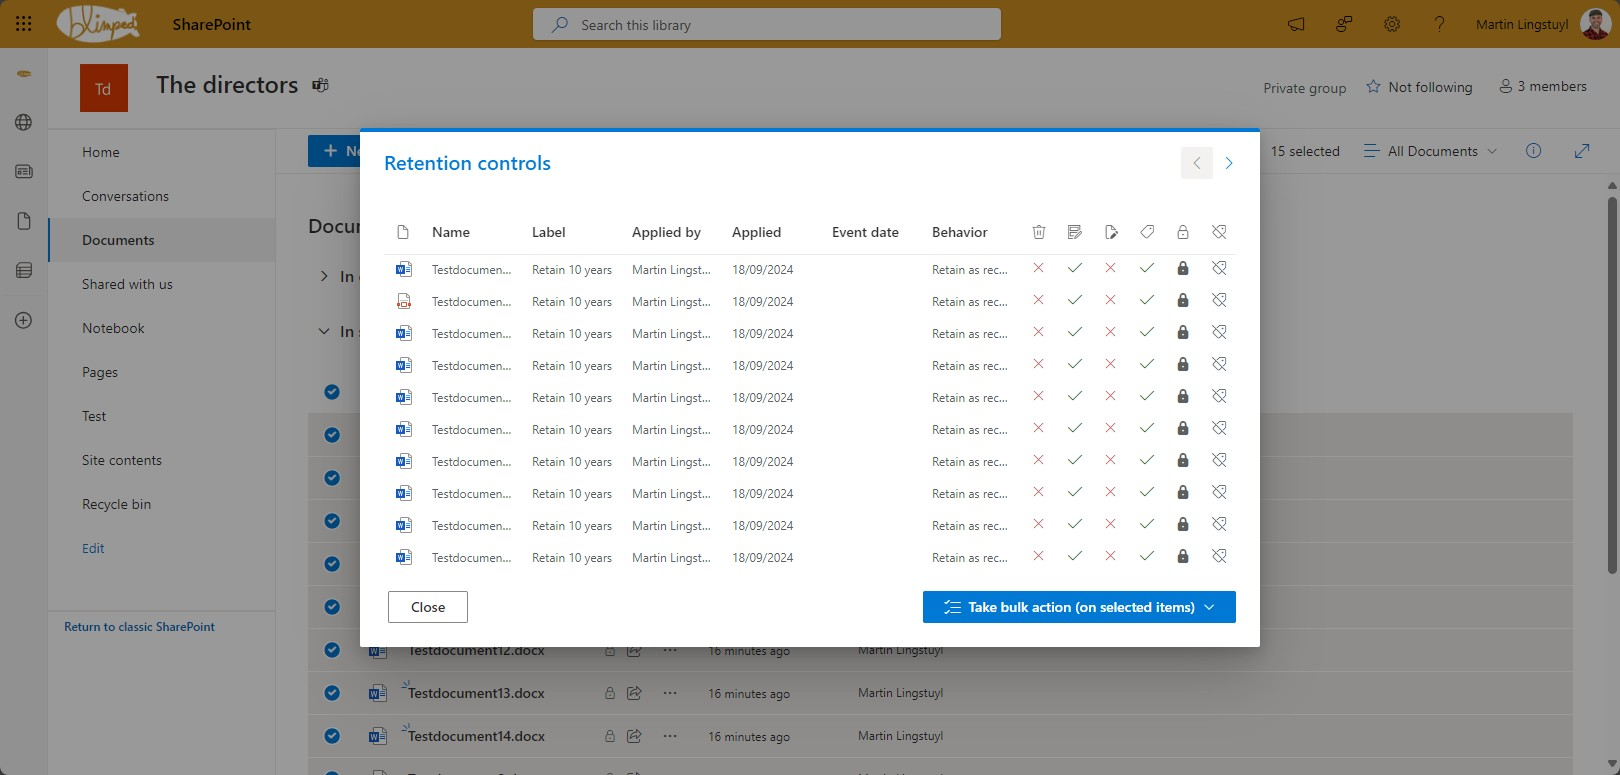
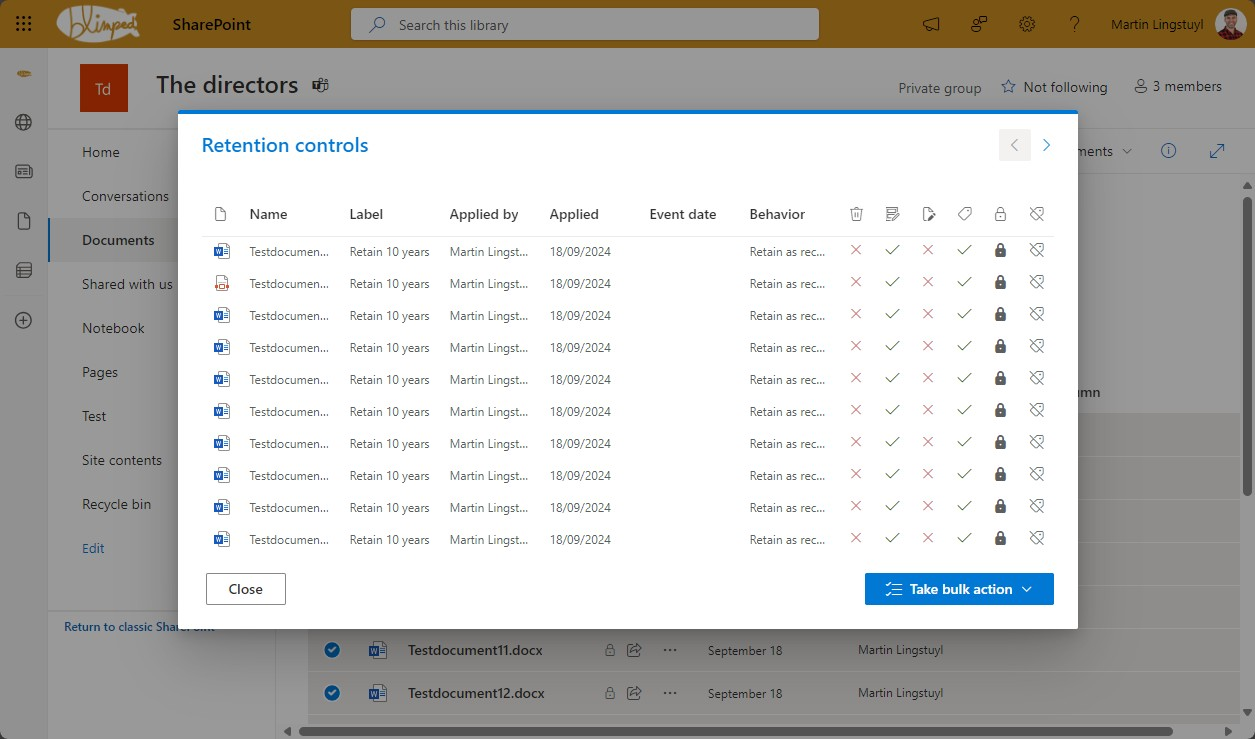
Adds confirmation box for library view

diff --git a/src/extensions/retentionControls/components/LibraryView.tsx b/src/extensions/retentionControls/components/LibraryView.tsx
@@ -23,6 +23,7 @@ import { ResponsiveMode } from "@fluentui/react/lib/ResponsiveMode";
 import { IPagedDriveItems } from "../../../shared/interfaces/IPagedDriveItems";
 import { itemMetadataColumns } from "../../../shared/constants";
 import { IDriveItem } from "../../../shared/interfaces/IDriveItem";
+import ConfirmationDialogManager from "../ConfirmationDialogManager";
 
 export interface ILibraryView {
   onClose: () => void;
@@ -165,7 +166,7 @@ export const LibraryView: React.FC<ILibraryView> = (props) => {
     Promise.resolve().then(async () => {
       if (itemsWithMetadata === undefined) {
         return;
-      }
+      }      
       
       Log.info(LOG_SOURCE, `Toggling record status for all items`);
       
@@ -330,6 +331,18 @@ export const LibraryView: React.FC<ILibraryView> = (props) => {
   const onRenderItemColumn = (item: IItemMetadata, index: number, column: ICustomColumn): JSX.Element => {
     return <ItemColumn item={item} itemState={itemsState.filter(i => i.listItemId === item.id)[0]} column={column} onToggling={onTogglingRecord} onClearing={onClearingLabel} />;
   }
+
+  const showConfirmationDialog = (title: string, message: string, callback: () => void): void => {
+    Promise.resolve().then(async () => {
+      const dialog = new ConfirmationDialogManager(title, message);
+      dialog.onClosed(async (confirmed?: boolean) => {
+        if (confirmed === true) {
+          callback();
+        }
+      });
+      await dialog.show();
+    }).catch(error => console.log(error));
+  }
   
   const menuProps: IContextualMenuProps = {  
     items: [
@@ -337,21 +350,21 @@ export const LibraryView: React.FC<ILibraryView> = (props) => {
         key: 'lockRecords',
         text: strings.LockRecords,
         title: strings.LockRecordsTooltip,
-        onClick: () => onTogglingAllRecords(true),
+        onClick: () => showConfirmationDialog(strings.ConfirmEntireLibraryImpactTitle, strings.ConfirmEntireLibraryImpactMessage, () => onTogglingAllRecords(true)),
         iconProps: { iconName: 'Lock' },
       },
       {
         key: 'unlockRecords',
         text: strings.UnlockRecords,
         title: strings.UnlockRecordsTooltip,
-        onClick: () => onTogglingAllRecords(false),
+        onClick: () => showConfirmationDialog(strings.ConfirmEntireLibraryImpactTitle, strings.ConfirmEntireLibraryImpactMessage, () => onTogglingAllRecords(false)),
         iconProps: { iconName: 'Unlock' },
       },
       {
         key: 'clearAllLabels',
         text: strings.ClearLabels,
         title: strings.ClearLabelsTooltip,
-        onClick: () => onClearingAllLabels(),
+        onClick: () => showConfirmationDialog(strings.ConfirmEntireLibraryImpactTitle, strings.ConfirmEntireLibraryImpactMessage, () => onClearingAllLabels()),
         iconProps: { iconName: 'Untag' },
       },
     ],
@@ -410,8 +423,8 @@ export const LibraryView: React.FC<ILibraryView> = (props) => {
         <DefaultButton onClick={props.onClose} text={strings.CloseModal} />
         <Stack horizontal tokens={{ childrenGap: 10 }}>
 
-          <PrimaryButton menuProps={menuProps} menuAs={getMenu} iconProps={{ iconName: "MultiSelect"}} text={strings.TakeBulkActionsEntireLibrary} title={strings.TakeBulkActionsEntireLibraryTooltip} disabled={!itemsWithMetadata || itemsWithMetadata?.length === 0 || executingAction} />
           { executingAction ? <><Spinner label={actionStatus} labelPosition="right" size={SpinnerSize.small} /> </> : <></> }
+          <PrimaryButton menuProps={menuProps} menuAs={getMenu} iconProps={{ iconName: "MultiSelect"}} text={strings.TakeBulkActionsEntireLibrary} title={strings.TakeBulkActionsEntireLibraryTooltip} disabled={!itemsWithMetadata || itemsWithMetadata?.length === 0 || executingAction} />
         </Stack>
       </DialogFooter>
     </Dialog>

diff --git a/src/extensions/retentionControls/loc/en-us.js b/src/extensions/retentionControls/loc/en-us.js
@@ -19,6 +19,8 @@ define([], function () {
     ClearLabelConfirmationTitle: "About folders",
     ClearLabelConfirmationMessage: "The selected item is a folder. This operation does not clear the retention label from any content in the folder. It will only make sure new content created in the folder will not automatically get a retention label. Do you want to continue clearing the label from just the folder?",
     CloseModal: "Close",
+    ConfirmEntireLibraryImpactTitle: "Confirm action",
+    ConfirmEntireLibraryImpactMessage: "This action will affect all items in this library and can take quite a while to complete, depending on the number of items. Are you sure you want to continue?",
     ErrorFetchingData: "An error occurred while fetching data",
     FileName: "File",
     IsContentUpdateAllowed: "Content update allowed",
@@ -56,9 +58,9 @@ define([], function () {
     RetentionLabelAppliedBy: "Applied by",
     RetentionLabelEventDate: "Event date",
     RetentionLabelsApplied: "Retention labels",
-    TakeBulkActionsSelectedItems: "Take bulk action (on selected items)",
+    TakeBulkActionsSelectedItems: "Take bulk action",
     TakeBulkActionsSelectedItemsTooltip: "Click to take bulk actions on the selected items",
-    TakeBulkActionsEntireLibrary: "Take bulk action (on entire library)",
+    TakeBulkActionsEntireLibrary: "Take bulk action",
     TakeBulkActionsEntireLibraryTooltip: "Click to take bulk actions on the entire library",
     ToggleLockStatus: "Toggle",
     ToggleOffText: "No",

diff --git a/src/extensions/retentionControls/components/MultiItemView.tsx b/src/extensions/retentionControls/components/MultiItemView.tsx
@@ -421,8 +421,8 @@ export const MultiItemView: React.FC<IMultiItemView> = (props) => {
         <DefaultButton onClick={props.onClose} text={strings.CloseModal} />
         <Stack horizontal tokens={{ childrenGap: 10 }}>
 
-          <PrimaryButton menuProps={menuProps} menuAs={getMenu} iconProps={{ iconName: "MultiSelect"}} text={strings.TakeBulkActionsSelectedItems} title={strings.TakeBulkActionsSelectedItemsTooltip} disabled={!itemsWithMetadata || itemsWithMetadata?.length === 0 || executingAction} />
           { executingAction ? <Spinner label={actionStatus} labelPosition="right" size={SpinnerSize.small} /> : <></> }
+          <PrimaryButton menuProps={menuProps} menuAs={getMenu} iconProps={{ iconName: "MultiSelect"}} text={strings.TakeBulkActionsSelectedItems} title={strings.TakeBulkActionsSelectedItemsTooltip} disabled={!itemsWithMetadata || itemsWithMetadata?.length === 0 || executingAction} />
         </Stack>
       </DialogFooter>
     </Dialog>    

diff --git a/src/extensions/retentionControls/loc/myStrings.d.ts b/src/extensions/retentionControls/loc/myStrings.d.ts
@@ -18,6 +18,8 @@ declare interface IRetentionControlsCommandSetStrings {
   ClearLabelConfirmationTitle: string;
   ClearLabelConfirmationMessage: string;
   CloseModal: string;
+  ConfirmEntireLibraryImpactTitle: string;
+  ConfirmEntireLibraryImpactMessage: string;
   ErrorFetchingData: string;
   FileName: string;
   IsContentUpdateAllowed: string;
